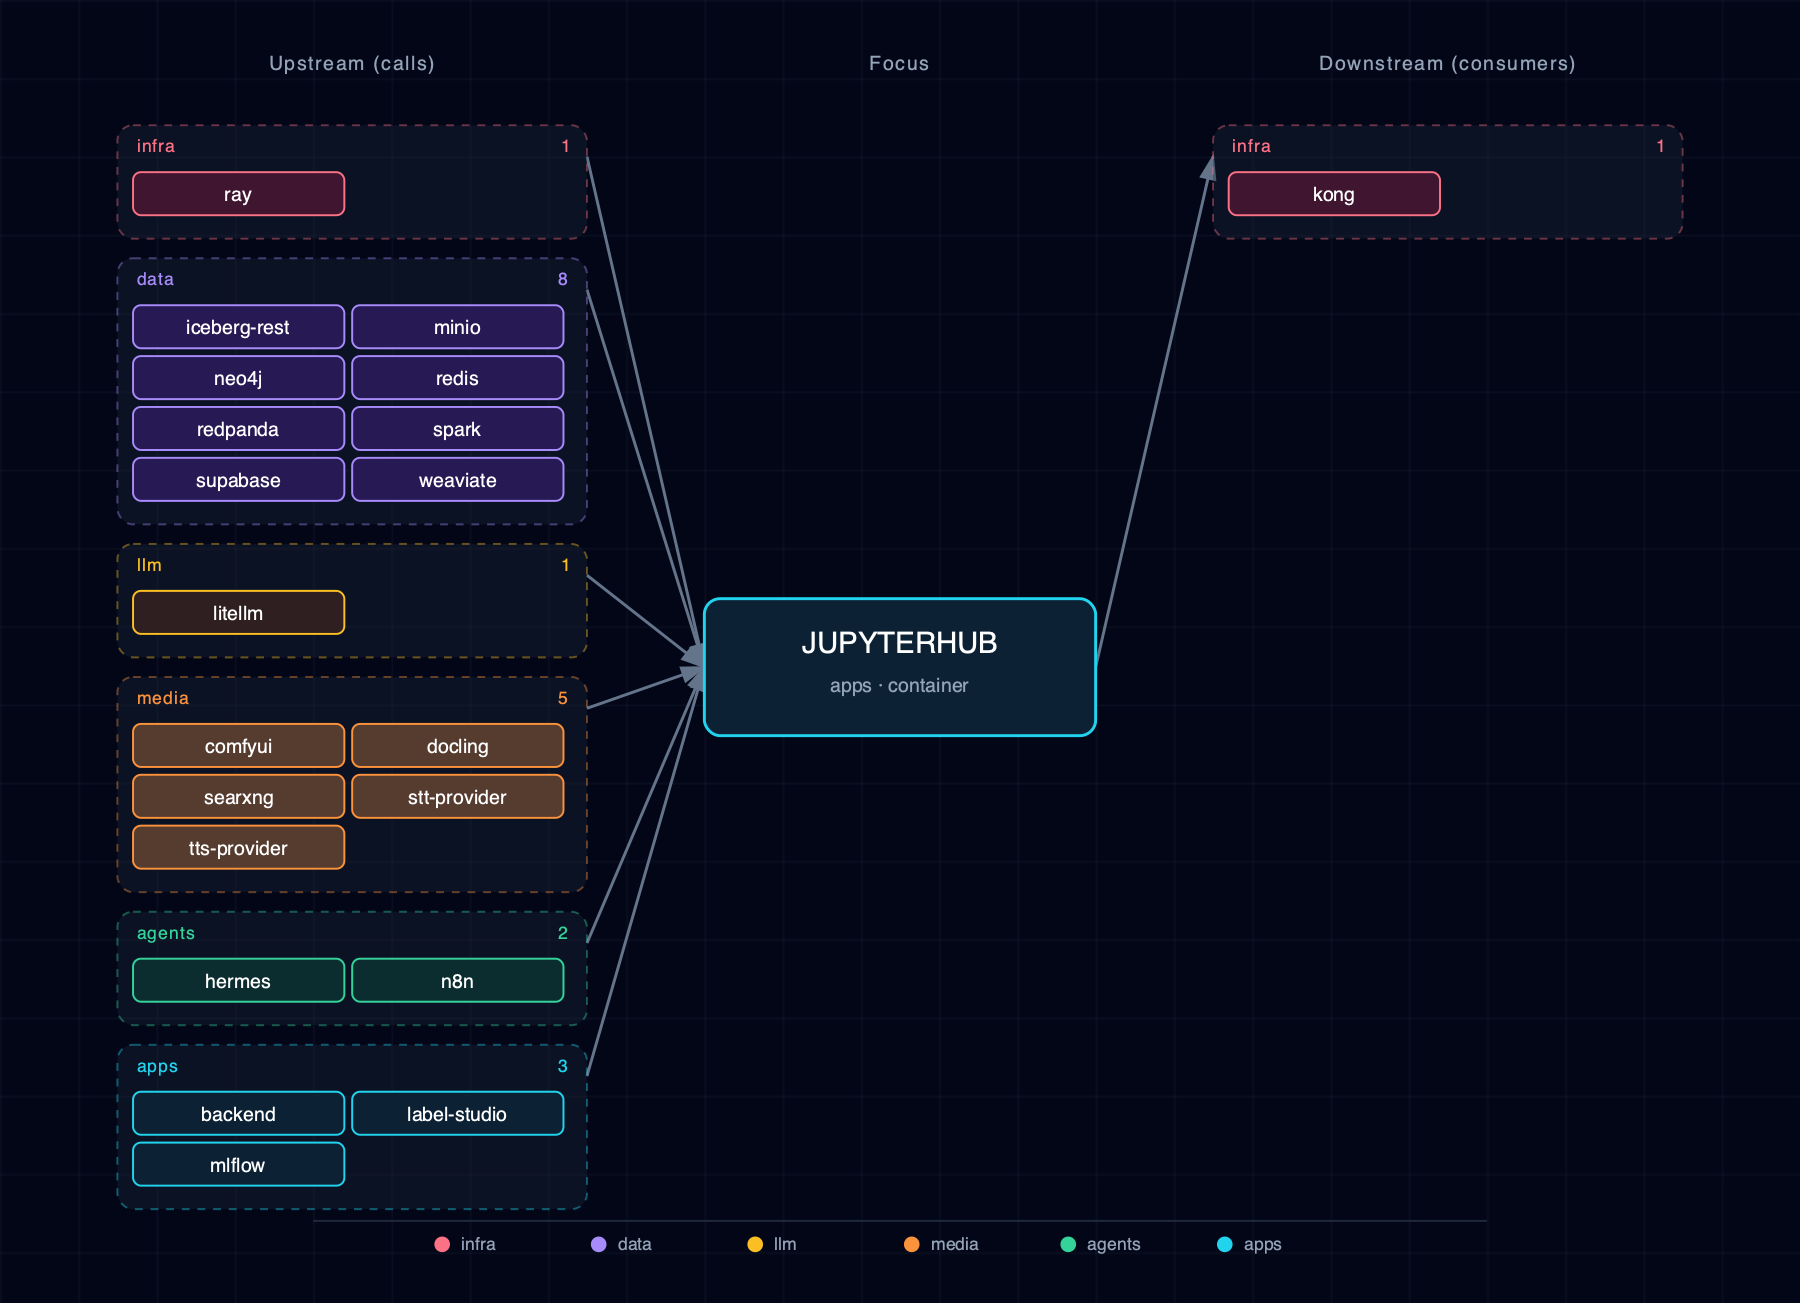
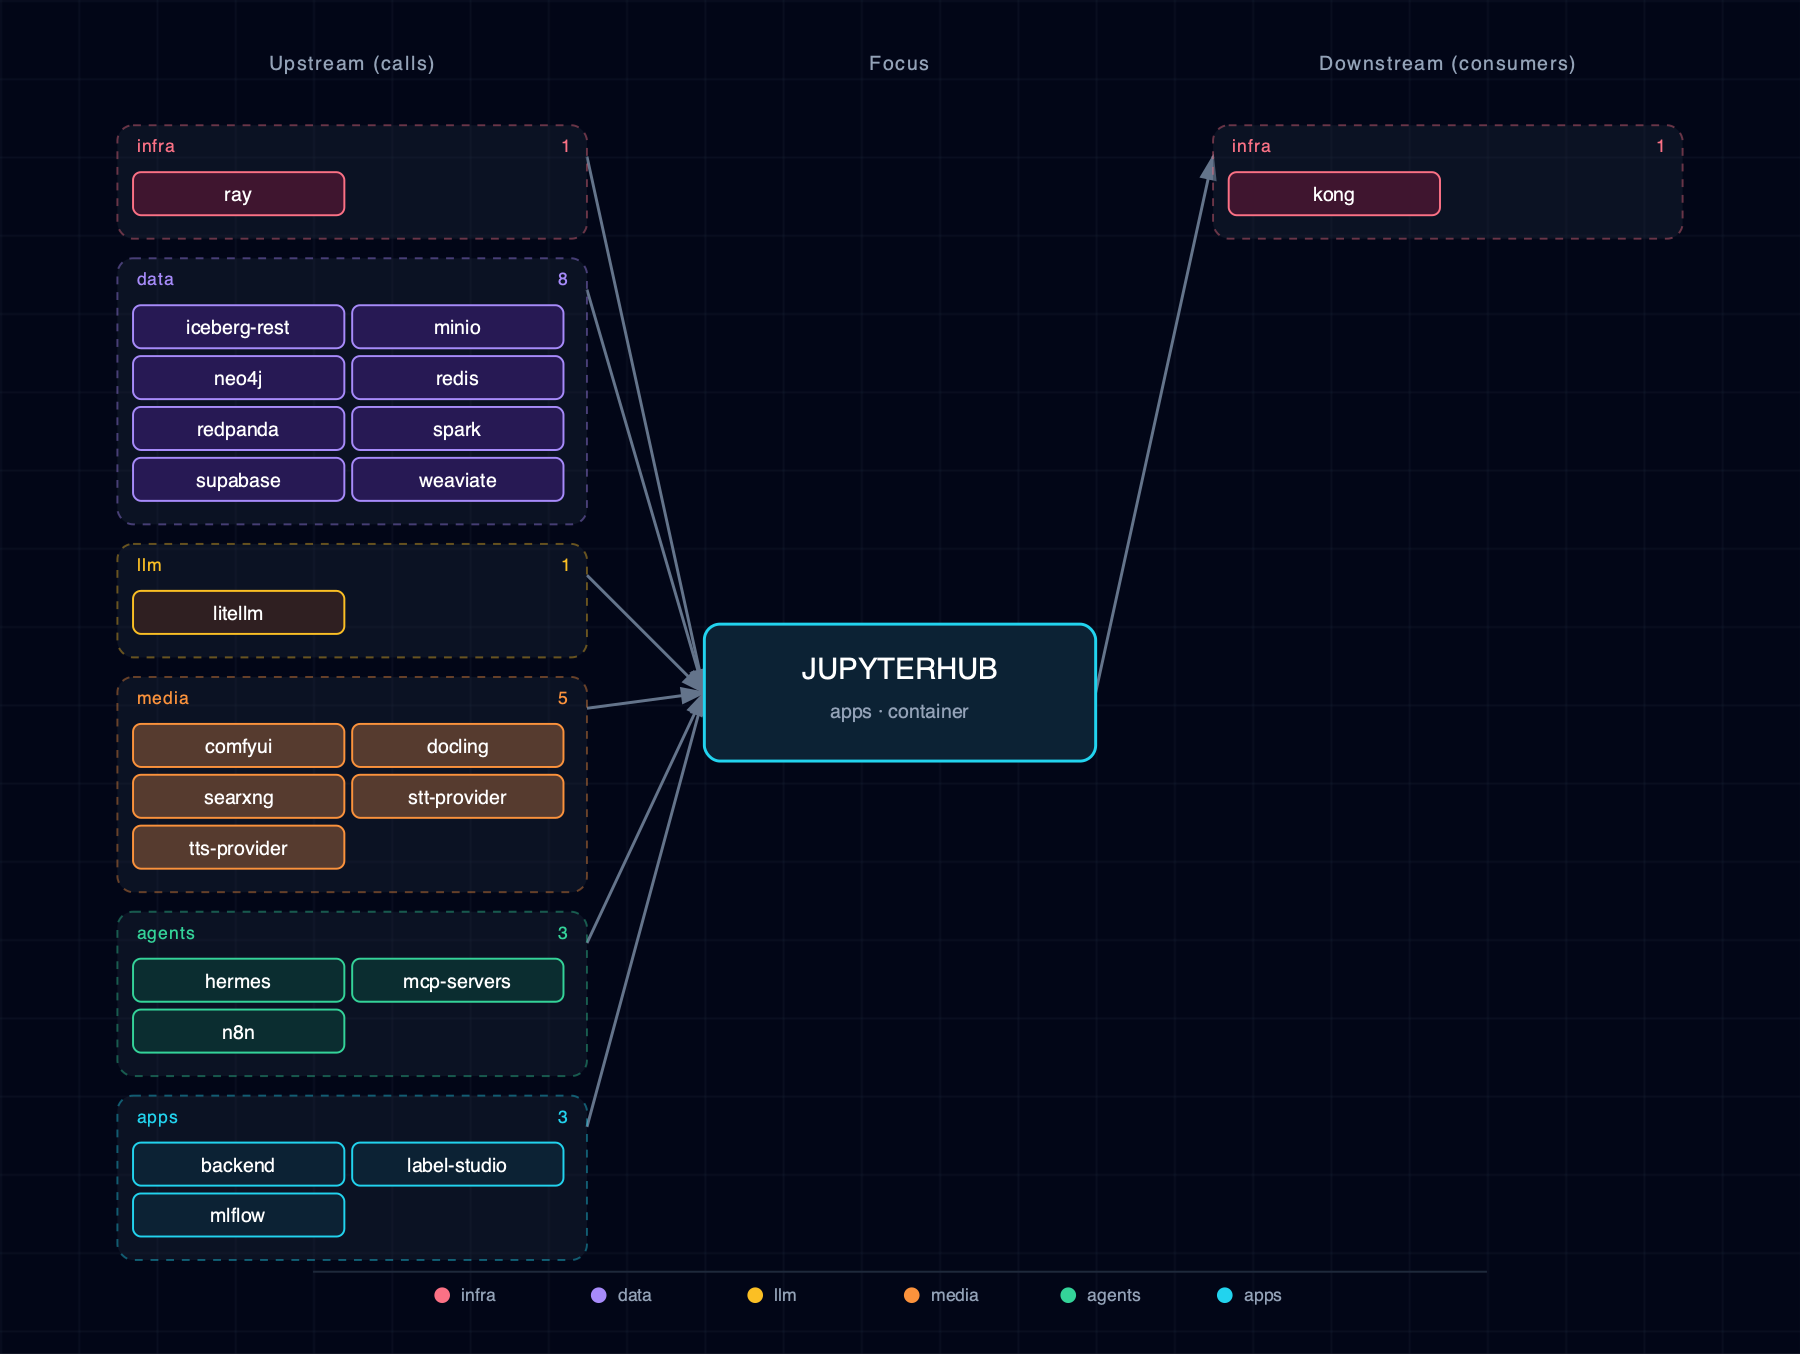
feat(jupyterhub): FastMCP 3 toolkit + MCP notebook (#600)
Add fastmcp==3.4.4 (matching #598) to JupyterHub, wire the optional MCP
endpoint (MCP_SERVERS_URL adaptive env + optional dep + data_flow), and ship
notebook 15_mcp_clients.ipynb covering discovery, invocation, error handling,
and in-process tool authoring. mcp-servers is optional (JupyterHub starts
normally when disabled).

- requirements.txt: pin fastmcp==3.4.4
- service.yml: MCP_SERVERS_URL env + mcp-servers optional dep + adaptive +
  runtime_deps + data_flow.calls
- 15_mcp_clients.ipynb: FastMCP Client discovery/invocation/errors/in-process
- 00_environment_check.ipynb + README + startup.sh: notebook mention
- test_jupyterhub_notebook_inventory.py: fastmcp in MODULE_DISTRIBUTIONS
- Architecture SVGs/HTML + mcp-servers README regen (data_flow changed)
- .env.example + env-vars.md + service-dependencies.md regenerated

Closes #600

diff --git a/services/jupyterhub/architecture.html b/services/jupyterhub/architecture.html
@@ -21,7 +21,7 @@
   <div class="wrap">
     <h1><span class="dot"></span> jupyterhub — Architecture</h1>
     <div class="subtitle">category: apps · source: container</div>
-    <div class="card"><svg xmlns="http://www.w3.org/2000/svg" viewBox="0 0 920 666" font-family="'JetBrains Mono', 'Fira Code', Menlo, Consolas, monospace">
+    <div class="card"><svg xmlns="http://www.w3.org/2000/svg" viewBox="0 0 920 692" font-family="'JetBrains Mono', 'Fira Code', Menlo, Consolas, monospace">
 <defs>
   <pattern id="grid" width="40" height="40" patternUnits="userSpaceOnUse">
     <path d="M 40 0 L 0 0 0 40" fill="none" stroke="#1e293b" stroke-width="0.5"/>
@@ -39,18 +39,18 @@
     </feMerge>
   </filter>
 </defs>
-<rect width="920" height="666" fill="#020617"/>
-<rect width="920" height="666" fill="url(#grid)"/>
+<rect width="920" height="692" fill="#020617"/>
+<rect width="920" height="692" fill="url(#grid)"/>
 <text x="180" y="36" fill="#94a3b8" font-size="10" font-weight="600" text-anchor="middle" letter-spacing="0.08em">Upstream (calls)</text>
 <text x="460" y="36" fill="#94a3b8" font-size="10" font-weight="600" text-anchor="middle" letter-spacing="0.08em">Focus</text>
 <text x="740" y="36" fill="#94a3b8" font-size="10" font-weight="600" text-anchor="middle" letter-spacing="0.08em">Downstream (consumers)</text>
-<line x1="300" y1="80" x2="360" y2="341" stroke="#64748b" stroke-width="1.5" marker-end="url(#arrowhead)"/>
-<line x1="300" y1="148" x2="360" y2="341" stroke="#64748b" stroke-width="1.5" marker-end="url(#arrowhead)"/>
-<line x1="300" y1="294" x2="360" y2="341" stroke="#64748b" stroke-width="1.5" marker-end="url(#arrowhead)"/>
-<line x1="300" y1="362" x2="360" y2="341" stroke="#64748b" stroke-width="1.5" marker-end="url(#arrowhead)"/>
-<line x1="300" y1="482" x2="360" y2="341" stroke="#64748b" stroke-width="1.5" marker-end="url(#arrowhead)"/>
-<line x1="300" y1="550" x2="360" y2="341" stroke="#64748b" stroke-width="1.5" marker-end="url(#arrowhead)"/>
-<line x1="560" y1="341" x2="620" y2="80" stroke="#64748b" stroke-width="1.5" marker-end="url(#arrowhead)"/>
+<line x1="300" y1="80" x2="360" y2="354" stroke="#64748b" stroke-width="1.5" marker-end="url(#arrowhead)"/>
+<line x1="300" y1="148" x2="360" y2="354" stroke="#64748b" stroke-width="1.5" marker-end="url(#arrowhead)"/>
+<line x1="300" y1="294" x2="360" y2="354" stroke="#64748b" stroke-width="1.5" marker-end="url(#arrowhead)"/>
+<line x1="300" y1="362" x2="360" y2="354" stroke="#64748b" stroke-width="1.5" marker-end="url(#arrowhead)"/>
+<line x1="300" y1="482" x2="360" y2="354" stroke="#64748b" stroke-width="1.5" marker-end="url(#arrowhead)"/>
+<line x1="300" y1="576" x2="360" y2="354" stroke="#64748b" stroke-width="1.5" marker-end="url(#arrowhead)"/>
+<line x1="560" y1="354" x2="620" y2="80" stroke="#64748b" stroke-width="1.5" marker-end="url(#arrowhead)"/>
 <g>
 <g class="cluster">
   <rect x="60" y="64" width="240" height="58" rx="8"
@@ -108,30 +108,31 @@
 <g><rect x="180" y="396" width="108" height="22" rx="4" fill="#0f172a"/><rect x="180" y="396" width="108" height="22" rx="4" fill="rgba(251, 146, 60, 0.3)" stroke="#fb923c" stroke-width="1"/><text x="234" y="411" fill="white" font-size="10" text-anchor="middle">stt-provider</text></g>
 <g><rect x="68" y="422" width="108" height="22" rx="4" fill="#0f172a"/><rect x="68" y="422" width="108" height="22" rx="4" fill="rgba(251, 146, 60, 0.3)" stroke="#fb923c" stroke-width="1"/><text x="122" y="437" fill="white" font-size="10" text-anchor="middle">tts-provider</text></g>
 <g class="cluster">
-  <rect x="60" y="466" width="240" height="58" rx="8"
+  <rect x="60" y="466" width="240" height="84" rx="8"
         fill="rgba(30,41,59,0.35)"
         stroke="#34d399" stroke-width="1" stroke-dasharray="4,4" stroke-opacity="0.4"/>
   <text x="70" y="480" fill="#34d399" font-size="9" font-weight="700"
         text-anchor="start" style="letter-spacing:0.06em;text-transform:uppercase;">agents</text>
   <text x="290" y="480" fill="#34d399" font-size="9" font-weight="600"
-        text-anchor="end">2</text>
-</g>
-
-<g><rect x="68" y="490" width="108" height="22" rx="4" fill="#0f172a"/><rect x="68" y="490" width="108" height="22" rx="4" fill="rgba(6, 78, 59, 0.4)" stroke="#34d399" stroke-width="1"/><text x="122" y="505" fill="white" font-size="10" text-anchor="middle">hermes</text></g>
-<g><rect x="180" y="490" width="108" height="22" rx="4" fill="#0f172a"/><rect x="180" y="490" width="108" height="22" rx="4" fill="rgba(6, 78, 59, 0.4)" stroke="#34d399" stroke-width="1"/><text x="234" y="505" fill="white" font-size="10" text-anchor="middle">n8n</text></g>
-<g class="cluster">
-  <rect x="60" y="534" width="240" height="84" rx="8"
-        fill="rgba(30,41,59,0.35)"
-        stroke="#22d3ee" stroke-width="1" stroke-dasharray="4,4" stroke-opacity="0.4"/>
-  <text x="70" y="548" fill="#22d3ee" font-size="9" font-weight="700"
-        text-anchor="start" style="letter-spacing:0.06em;text-transform:uppercase;">apps</text>
-  <text x="290" y="548" fill="#22d3ee" font-size="9" font-weight="600"
         text-anchor="end">3</text>
 </g>
 
-<g><rect x="68" y="558" width="108" height="22" rx="4" fill="#0f172a"/><rect x="68" y="558" width="108" height="22" rx="4" fill="rgba(8, 51, 68, 0.4)" stroke="#22d3ee" stroke-width="1"/><text x="122" y="573" fill="white" font-size="10" text-anchor="middle">backend</text></g>
-<g><rect x="180" y="558" width="108" height="22" rx="4" fill="#0f172a"/><rect x="180" y="558" width="108" height="22" rx="4" fill="rgba(8, 51, 68, 0.4)" stroke="#22d3ee" stroke-width="1"/><text x="234" y="573" fill="white" font-size="10" text-anchor="middle">label-studio</text></g>
-<g><rect x="68" y="584" width="108" height="22" rx="4" fill="#0f172a"/><rect x="68" y="584" width="108" height="22" rx="4" fill="rgba(8, 51, 68, 0.4)" stroke="#22d3ee" stroke-width="1"/><text x="122" y="599" fill="white" font-size="10" text-anchor="middle">mlflow</text></g>
+<g><rect x="68" y="490" width="108" height="22" rx="4" fill="#0f172a"/><rect x="68" y="490" width="108" height="22" rx="4" fill="rgba(6, 78, 59, 0.4)" stroke="#34d399" stroke-width="1"/><text x="122" y="505" fill="white" font-size="10" text-anchor="middle">hermes</text></g>
+<g><rect x="180" y="490" width="108" height="22" rx="4" fill="#0f172a"/><rect x="180" y="490" width="108" height="22" rx="4" fill="rgba(6, 78, 59, 0.4)" stroke="#34d399" stroke-width="1"/><text x="234" y="505" fill="white" font-size="10" text-anchor="middle">mcp-servers</text></g>
+<g><rect x="68" y="516" width="108" height="22" rx="4" fill="#0f172a"/><rect x="68" y="516" width="108" height="22" rx="4" fill="rgba(6, 78, 59, 0.4)" stroke="#34d399" stroke-width="1"/><text x="122" y="531" fill="white" font-size="10" text-anchor="middle">n8n</text></g>
+<g class="cluster">
+  <rect x="60" y="560" width="240" height="84" rx="8"
+        fill="rgba(30,41,59,0.35)"
+        stroke="#22d3ee" stroke-width="1" stroke-dasharray="4,4" stroke-opacity="0.4"/>
+  <text x="70" y="574" fill="#22d3ee" font-size="9" font-weight="700"
+        text-anchor="start" style="letter-spacing:0.06em;text-transform:uppercase;">apps</text>
+  <text x="290" y="574" fill="#22d3ee" font-size="9" font-weight="600"
+        text-anchor="end">3</text>
+</g>
+
+<g><rect x="68" y="584" width="108" height="22" rx="4" fill="#0f172a"/><rect x="68" y="584" width="108" height="22" rx="4" fill="rgba(8, 51, 68, 0.4)" stroke="#22d3ee" stroke-width="1"/><text x="122" y="599" fill="white" font-size="10" text-anchor="middle">backend</text></g>
+<g><rect x="180" y="584" width="108" height="22" rx="4" fill="#0f172a"/><rect x="180" y="584" width="108" height="22" rx="4" fill="rgba(8, 51, 68, 0.4)" stroke="#22d3ee" stroke-width="1"/><text x="234" y="599" fill="white" font-size="10" text-anchor="middle">label-studio</text></g>
+<g><rect x="68" y="610" width="108" height="22" rx="4" fill="#0f172a"/><rect x="68" y="610" width="108" height="22" rx="4" fill="rgba(8, 51, 68, 0.4)" stroke="#22d3ee" stroke-width="1"/><text x="122" y="625" fill="white" font-size="10" text-anchor="middle">mlflow</text></g>
 </g>
 <g>
 <g class="cluster">
@@ -146,24 +147,24 @@
 
 <g><rect x="628" y="88" width="108" height="22" rx="4" fill="#0f172a"/><rect x="628" y="88" width="108" height="22" rx="4" fill="rgba(136, 19, 55, 0.4)" stroke="#fb7185" stroke-width="1"/><text x="682" y="103" fill="white" font-size="10" text-anchor="middle">kong</text></g>
 </g>
-<g class="focus" filter="url(#focus-glow)">  <rect x="360" y="306" width="200" height="70" rx="8" fill="#0f172a"/>  <rect x="360" y="306" width="200" height="70" rx="8"         fill="rgba(8, 51, 68, 0.4)" stroke="#22d3ee" stroke-width="1.5"/>  <text x="460" y="334" fill="white" font-size="15" font-weight="700"         text-anchor="middle">JUPYTERHUB</text>  <text x="460" y="354" fill="#94a3b8" font-size="10"         text-anchor="middle">apps · container</text></g>
-<g class="legend"><line x1="160" y1="624" x2="760" y2="624" stroke="#1e293b" stroke-width="1"/>
-<circle cx="226" cy="636" r="4" fill="#fb7185"/>
-<text x="236" y="639" fill="#94a3b8" font-size="9" font-weight="400" text-anchor="start">infra</text>
-<circle cx="306" cy="636" r="4" fill="#a78bfa"/>
-<text x="316" y="639" fill="#94a3b8" font-size="9" font-weight="400" text-anchor="start">data</text>
-<circle cx="386" cy="636" r="4" fill="#fbbf24"/>
-<text x="396" y="639" fill="#94a3b8" font-size="9" font-weight="400" text-anchor="start">llm</text>
-<circle cx="466" cy="636" r="4" fill="#fb923c"/>
-<text x="476" y="639" fill="#94a3b8" font-size="9" font-weight="400" text-anchor="start">media</text>
-<circle cx="546" cy="636" r="4" fill="#34d399"/>
-<text x="556" y="639" fill="#94a3b8" font-size="9" font-weight="400" text-anchor="start">agents</text>
-<circle cx="626" cy="636" r="4" fill="#22d3ee"/>
-<text x="636" y="639" fill="#94a3b8" font-size="9" font-weight="400" text-anchor="start">apps</text>
+<g class="focus" filter="url(#focus-glow)">  <rect x="360" y="319" width="200" height="70" rx="8" fill="#0f172a"/>  <rect x="360" y="319" width="200" height="70" rx="8"         fill="rgba(8, 51, 68, 0.4)" stroke="#22d3ee" stroke-width="1.5"/>  <text x="460" y="347" fill="white" font-size="15" font-weight="700"         text-anchor="middle">JUPYTERHUB</text>  <text x="460" y="367" fill="#94a3b8" font-size="10"         text-anchor="middle">apps · container</text></g>
+<g class="legend"><line x1="160" y1="650" x2="760" y2="650" stroke="#1e293b" stroke-width="1"/>
+<circle cx="226" cy="662" r="4" fill="#fb7185"/>
+<text x="236" y="665" fill="#94a3b8" font-size="9" font-weight="400" text-anchor="start">infra</text>
+<circle cx="306" cy="662" r="4" fill="#a78bfa"/>
+<text x="316" y="665" fill="#94a3b8" font-size="9" font-weight="400" text-anchor="start">data</text>
+<circle cx="386" cy="662" r="4" fill="#fbbf24"/>
+<text x="396" y="665" fill="#94a3b8" font-size="9" font-weight="400" text-anchor="start">llm</text>
+<circle cx="466" cy="662" r="4" fill="#fb923c"/>
+<text x="476" y="665" fill="#94a3b8" font-size="9" font-weight="400" text-anchor="start">media</text>
+<circle cx="546" cy="662" r="4" fill="#34d399"/>
+<text x="556" y="665" fill="#94a3b8" font-size="9" font-weight="400" text-anchor="start">agents</text>
+<circle cx="626" cy="662" r="4" fill="#22d3ee"/>
+<text x="636" y="665" fill="#94a3b8" font-size="9" font-weight="400" text-anchor="start">apps</text>
 </g>
 </svg></div>
     <div class="cards">
-      <div class="card"><h3>Calls</h3><div class="num">20</div></div>
+      <div class="card"><h3>Calls</h3><div class="num">21</div></div>
       <div class="card"><h3>Consumers</h3><div class="num">1</div></div>
       <div class="card"><h3>Categories</h3><div class="num">1</div></div>
     </div>

diff --git a/services/mcp-servers/architecture.html b/services/mcp-servers/architecture.html
@@ -47,6 +47,7 @@
 <line x1="300" y1="80" x2="360" y2="127" stroke="#64748b" stroke-width="1.5" marker-end="url(#arrowhead)"/>
 <line x1="300" y1="148" x2="360" y2="127" stroke="#64748b" stroke-width="1.5" marker-end="url(#arrowhead)"/>
 <line x1="560" y1="127" x2="620" y2="80" stroke="#64748b" stroke-width="1.5" marker-end="url(#arrowhead)"/>
+<line x1="560" y1="127" x2="620" y2="148" stroke="#64748b" stroke-width="1.5" marker-end="url(#arrowhead)"/>
 <g>
 <g class="cluster">
   <rect x="60" y="64" width="240" height="58" rx="8"
@@ -84,6 +85,17 @@
 </g>
 
 <g><rect x="628" y="88" width="108" height="22" rx="4" fill="#0f172a"/><rect x="628" y="88" width="108" height="22" rx="4" fill="rgba(136, 19, 55, 0.4)" stroke="#fb7185" stroke-width="1"/><text x="682" y="103" fill="white" font-size="10" text-anchor="middle">kong</text></g>
+<g class="cluster">
+  <rect x="620" y="132" width="240" height="58" rx="8"
+        fill="rgba(30,41,59,0.35)"
+        stroke="#22d3ee" stroke-width="1" stroke-dasharray="4,4" stroke-opacity="0.4"/>
+  <text x="630" y="146" fill="#22d3ee" font-size="9" font-weight="700"
+        text-anchor="start" style="letter-spacing:0.06em;text-transform:uppercase;">apps</text>
+  <text x="850" y="146" fill="#22d3ee" font-size="9" font-weight="600"
+        text-anchor="end">1</text>
+</g>
+
+<g><rect x="628" y="156" width="108" height="22" rx="4" fill="#0f172a"/><rect x="628" y="156" width="108" height="22" rx="4" fill="rgba(8, 51, 68, 0.4)" stroke="#22d3ee" stroke-width="1"/><text x="682" y="171" fill="white" font-size="10" text-anchor="middle">jupyterhub</text></g>
 </g>
 <g class="focus" filter="url(#focus-glow)">  <rect x="360" y="92" width="200" height="70" rx="8" fill="#0f172a"/>  <rect x="360" y="92" width="200" height="70" rx="8"         fill="rgba(6, 78, 59, 0.4)" stroke="#34d399" stroke-width="1.5"/>  <text x="460" y="120" fill="white" font-size="15" font-weight="700"         text-anchor="middle">MCP-SERVERS</text>  <text x="460" y="140" fill="#94a3b8" font-size="10"         text-anchor="middle">agents · disabled</text></g>
 <g class="legend"><line x1="160" y1="196" x2="760" y2="196" stroke="#1e293b" stroke-width="1"/>
@@ -103,8 +115,8 @@
 </svg></div>
     <div class="cards">
       <div class="card"><h3>Calls</h3><div class="num">3</div></div>
-      <div class="card"><h3>Consumers</h3><div class="num">1</div></div>
-      <div class="card"><h3>Categories</h3><div class="num">1</div></div>
+      <div class="card"><h3>Consumers</h3><div class="num">2</div></div>
+      <div class="card"><h3>Categories</h3><div class="num">2</div></div>
     </div>
     <footer>Regenerate: python -m bootstrapper.docs.regen mcp-servers</footer>
   </div>

diff --git a/bootstrapper/tests/test_jupyterhub_notebook_inventory.py b/bootstrapper/tests/test_jupyterhub_notebook_inventory.py
@@ -18,6 +18,7 @@ STARTUP_FILE = ROOT / "services" / "jupyterhub" / "build" / "scripts" / "startup
 MODULE_DISTRIBUTIONS = {
     "boto3": "boto3",
     "ccxt": "ccxt",
+    "fastmcp": "fastmcp",
     "chonkie": "chonkie",
     "dotenv": "python-dotenv",
     "httpx": "httpx",

diff --git a/docs/reference/service-dependencies.md b/docs/reference/service-dependencies.md
@@ -24,7 +24,7 @@
 | hermes | litellm | - | litellm, stt-provider, tts-provider, comfyui, searxng, airflow, lightrag |
 | iceberg-rest | minio, supabase | - | minio, supabase |
 | jenkins | minio | airflow, spark | minio |
-| jupyterhub | supabase, redis, litellm | minio, iceberg-rest, spark, redpanda | litellm, hermes, weaviate, neo4j, supabase, ray, spark, redpanda, redis, comfyui, n8n, backend, searxng, minio, iceberg-rest, mlflow, label-studio, docling, stt-provider, tts-provider |
+| jupyterhub | supabase, redis, litellm | minio, iceberg-rest, spark, mcp-servers, redpanda | litellm, hermes, weaviate, neo4j, supabase, ray, spark, redpanda, redis, comfyui, n8n, backend, searxng, minio, iceberg-rest, mlflow, label-studio, docling, stt-provider, tts-provider, mcp-servers |
 | kong | supabase, redis | - | backend, open-webui, jupyterhub, n8n, hermes, openclaw, local-deep-researcher, minio, supabase, weaviate, neo4j, comfyui, searxng, stt-provider, tts-provider, doc-processor, litellm, ollama, airflow, spark, lightrag, tei-reranker, verba, trino, redpanda, tika, crawl4ai, langfuse, mlflow, label-studio, jenkins, llm-graph-builder, mcp-servers, celery, asset-baker, asset-worker, grafana, prometheus, ray |
 | label-studio | supabase, minio | jupyterhub, mlflow | supabase, minio |
 | langfuse | supabase, redis, minio, litellm, kong, ray | - | supabase, redis, minio |

diff --git a/services/jupyterhub/README.md b/services/jupyterhub/README.md
@@ -94,6 +94,7 @@ deliberately not injected.
 | `12_iceberg_advanced_sql.ipynb` | Spark Connect advanced Iceberg smoke: `MERGE INTO`, `VERSION AS OF`, branch/WAP, schema evolution, nested JSON, Structured Streaming, and table maintenance. |
 | `13_chonkie_chunking.ipynb` | Compare Chonkie token, recursive, and optional semantic chunking, then call the Backend `/api/chunk` runtime endpoint. |
 | `14_ragas_evaluation.ipynb` | Evaluate RAG answers with Ragas metrics and the Backend `/api/rag/evaluate` runtime endpoint. |
+| `15_mcp_clients.ipynb` | Discover and invoke the Curated MCP Servers via FastMCP 3, handle errors, and prototype in-process tools (#600). |
 
 The repository gate keeps this inventory synchronized with the image welcome
 page and environment-check notebook, compiles every Python code cell, and
@@ -299,6 +300,7 @@ For the current high-level stack diagram, see [Architecture Diagram](../../docs/
 | stt-provider | media |
 | tts-provider | media |
 | hermes | agents |
+| mcp-servers | agents |
 | n8n | agents |
 | backend | apps |
 | label-studio | apps |

diff --git a/docs/reference/env-vars.md b/docs/reference/env-vars.md
@@ -301,6 +301,7 @@
 | JUPYTERHUB_TOKEN | jupyterhub |  | Optional. Empty = generate on start. |
 | JUPYTER_ALLOW_ORIGIN | jupyterhub | * | Allowed browser origin for Jupyter Server websocket upgrades; keep '*' for local dev, narrow for shared deployments. |
 | SPARK_REMOTE | jupyterhub | sc://spark-connect:15002 | Spark Connect endpoint used by bundled notebooks; override for a remote or managed Spark Connect server. |
+| MCP_SERVERS_URL | jupyterhub |  | Streamable HTTP URL for the Curated MCP Servers endpoint (http://mcp-servers:8000/mcp). Set by the bootstrapper when MCP_SERVERS_SOURCE is enabled; empty when disabled (#600). |
 | JUPYTERHUB_SCALE | jupyterhub |  | - |
 | KONG_API_GATEWAY_SOURCE | kong | container | Single-option (container only). |
 | KONG_HTTP_PORT | kong |  | - |

diff --git a/services/mcp-servers/README.md b/services/mcp-servers/README.md
@@ -61,6 +61,7 @@ MetaMCP, Docker MCP Gateway, and `mcpo` remain later or conditional tools. MetaM
 | Service | Category |
 |---|---|
 | kong | infra |
+| jupyterhub | apps |
 
 ### 5.3. Architecture diagram
 
